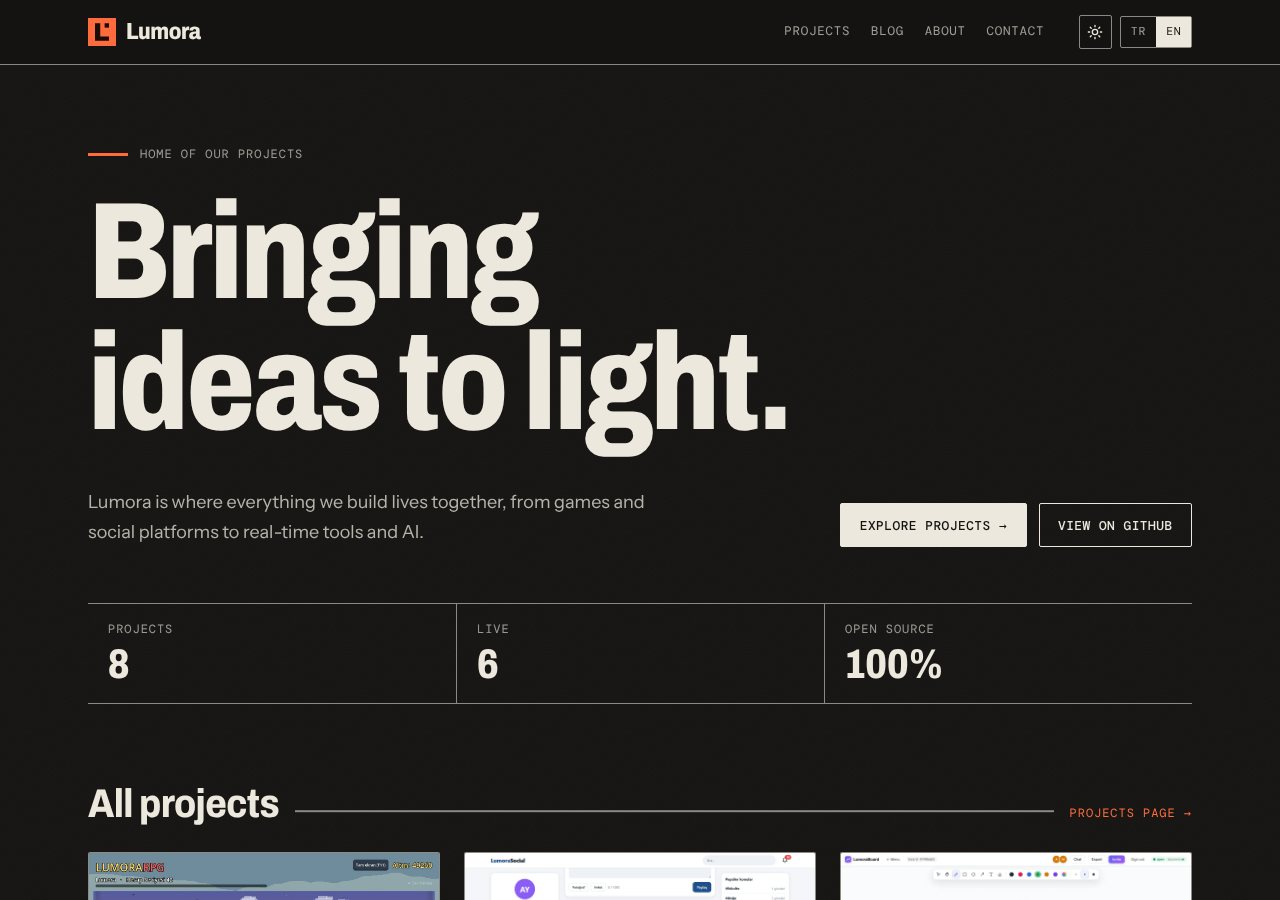
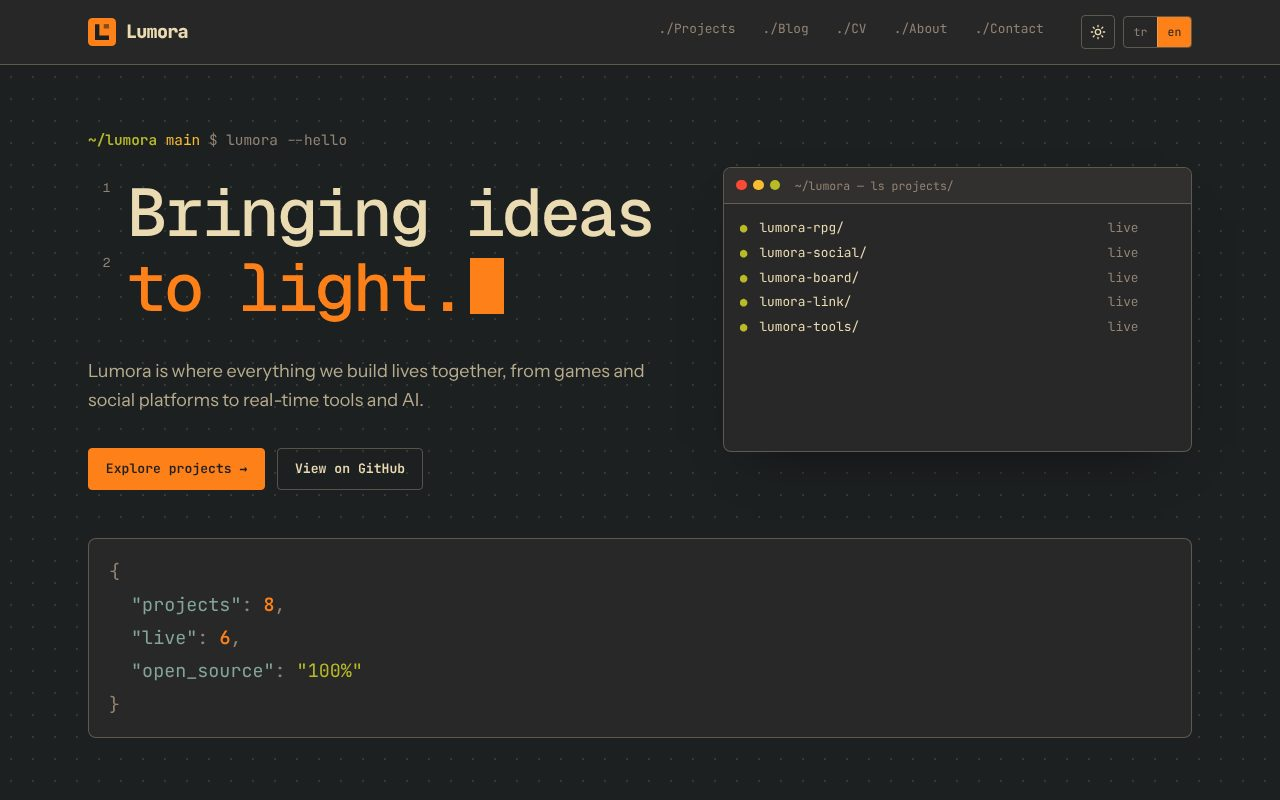
README: yeni tasarım ve güncel ekran görüntüleri (#14)
* README: yeni tasarıma göre güncellendi, ekran görüntüleri yenilendi

* README: kurulum ve geliştirme anlatımları kaldırıldı, yalnızca siteyi anlatıyor

---------

diff --git a/README.md b/README.md
@@ -23,12 +23,17 @@ Lumora, geliştirdiğimiz projelerin bir arada durduğu ana sitedir. Her projeni
 ## Ekran görüntüleri
 
 <p align="center">
-  <img src="docs/screenshots/anasayfa.jpg" alt="Ana sayfa: tanıtım ve öne çıkan projeler" width="100%">
+  <img src="docs/screenshots/anasayfa.jpg" alt="Ana sayfa: terminal temalı tanıtım, proje listesi ve istatistikler" width="100%">
 </p>
 
 <p align="center">
   <img src="docs/screenshots/projeler.jpg" alt="Projeler: kategori ve duruma göre süzülebilen liste" width="49%">
   <img src="docs/screenshots/proje-detay.jpg" alt="Proje sayfası: açıklama, özellikler ve teknolojiler" width="49%">
+</p>
+
+<p align="center">
+  <img src="docs/screenshots/cv.jpg" alt="CV sayfası: teknolojiler ve projeler otomatik gelir" width="49%">
+  <img src="docs/screenshots/giris.jpg" alt="Yönetici giriş sayfası" width="49%">
 </p>
 
 <p align="center">
@@ -40,112 +45,33 @@ Lumora, geliştirdiğimiz projelerin bir arada durduğu ana sitedir. Her projeni
   <img src="docs/screenshots/mobil.jpg" alt="Telefonda ana sayfa" width="30%">
 </p>
 
-<p align="center"><sub>Ana sayfa · Projeler · Proje sayfası · Açık tema · İngilizce sürüm · Mobil görünüm</sub></p>
+<p align="center"><sub>Ana sayfa · Projeler · Proje sayfası · CV · Yönetici girişi · Açık tema · İngilizce sürüm · Mobil görünüm</sub></p>
 
 ## Neler var
 
 - **Projeler:** LumoraRPG, LumoraSocial, LumoraBoard, LumoraLink, LumoraTools ve LumoraFiles yayında; Lumora Forge ve Lumora Academy geliştiriliyor.
 - **İki dil:** Türkçe `/`, İngilizce `/en/`. Sağ üstteki TR | EN düğmesi aynı sayfanın diğer dilini açar, seçim hatırlanır ve ilk ziyarette tarayıcı diline göre yönlendirilir.
+- **Yazılımcı sitesi görünümü:** terminal temalı ana sayfa, kod yorumu tarzı başlıklar, durum çubuğu altlık ve hafif animasyonlar (hareketi azalt ayarı açıkken kapanır).
+- **CV sayfası:** teknolojiler ve projeler sitedeki projelerden otomatik gelir; "PDF olarak kaydet" düğmesiyle yazdırılabilir.
+- **Yönetici girişi:** site sahibi GitHub ile girip blog yazısı ekleyebilir ve öne çıkan projeleri seçebilir.
 - **Koyu ve açık tema:** sağ üstteki düğmeyle değişir, seçim tarayıcıda saklanır.
-- **Blog:** duyurular ve sürüm notları için, yazılar Markdown dosyasıdır.
+- **Blog:** duyurular, sürüm notları ve grafikli yazılar; Türkçe ve İngilizce.
 - **GitHub bilgileri:** yıldız, son güncelleme ve son sürüm derleme sırasında çekilir; günlük otomatik yeniden derleme ile güncel kalır.
 - **SEO ve paylaşım:** sitemap, hreflang, Open Graph görseli ve güvenlik başlıkları hazırdır.
 - **Hızlı ve hafif:** sayfalar önceden HTML olarak üretilir, çerez ve takip betiği yoktur.
 
-## Geliştirme
+## Sayfalar
 
-```bash
-npm install
-npm run dev      # http://localhost:4321
-npm run build    # çıktı: dist/
-```
-
-Node 22 gerekir (`.nvmrc`).
-
-## Yeni proje eklemek
-
-`src/content/projects/` klasörüne yeni bir `.json` dosyası ekle (mevcutlardan birini kopyalayıp düzenlemek en kolayı). Dosya adı adres olur: `lumora-yeni.json` → `/projeler/lumora-yeni/` ve `/en/projects/lumora-yeni/`.
-
-| Alan | Açıklama |
+| Sayfa | Adres |
 | --- | --- |
-| `status` | `live` (Yayında), `beta` veya `development` (Geliştiriliyor) |
-| `order` | Sıralama |
-| `repo` | `kullanici/depo`; yıldız sayısı, son güncelleme ve son sürüm buradan otomatik çekilir |
-| `links` | "Siteye git", "İndir" gibi butonlar; ilki ana buton olur |
-| `screenshots` | `public/projects/` altındaki görseller; ilki kart kapağı olur. Yoksa kartta ikon ve renk gösterilir. Telefon görüntüleri için `"portrait": true` |
-| `accent`, `icon` | Projenin vurgu rengi ve emojisi |
+| Ana sayfa | `/` · `/en/` |
+| Projeler ve proje detayları | `/projeler/` · `/en/projects/` |
+| Blog | `/blog/` · `/en/blog/` |
+| CV | `/cv/` · `/en/cv/` |
+| Hakkında | `/hakkinda/` · `/en/about/` |
+| İletişim | `/iletisim/` · `/en/contact/` |
+| Yönetici girişi | `/giris/` · `/en/login/` |
 
-Metin alanlarının hepsi `{ "tr": "...", "en": "..." }` şeklindedir. Arayüz metinleri `src/lib/i18n.ts` içindedir.
+## Teknolojiler
 
-## Blog yazısı eklemek
-
-`src/content/posts/<adres>/` klasörü açıp içine `tr.md` ve/veya `en.md` koy (iki dil de zorunlu değil; yalnızca bir dil varsa diğer dilin blog sayfasına yönlenir). Dosya başı:
-
-```md
----
-title: Başlık
-description: Listede görünen kısa açıklama
-date: 2026-10-10
----
-
-Yazı metni (Markdown).
-```
-
-Yazılar `/blog/<adres>/` ve `/en/blog/<adres>/` altında yayınlanır, ana sayfada son iki yazı görünür.
-
-## Tema
-
-Renkler `src/styles/global.css` başındaki iki blokta durur (koyu: `html`, açık: `html[data-theme='light']`); Tailwind sınıfları bu değişkenlere bağlıdır. Vurgu rengini değiştirmek için iki blokta `--brand` ve `--brand-fg` yeterlidir. Tema ilk ziyarette cihazın temasını izler, seçim tarayıcıda saklanır.
-
-## Yayına alma (Cloudflare Pages, ücretsiz)
-
-1. [dash.cloudflare.com](https://dash.cloudflare.com) üzerinden ücretsiz hesap aç.
-2. **Workers & Pages → Create → Pages → Connect to Git** ile bu depoyu seç.
-3. Ayarlar: Framework preset **Astro**, build komutu `npm run build`, çıktı klasörü `dist`.
-4. Proje adını `lumorahub` yap; site `https://lumorahub.pages.dev` adresinde açılır. Adres değişirse `astro.config.mjs` içindeki `site` ve `public/robots.txt` adresini güncelle.
-5. (İsteğe bağlı) **Settings → Environment variables** altına `GITHUB_TOKEN` ekle; GitHub istek sınırına takılmayı önler.
-
-`main` dalına her birleştirme siteyi otomatik günceller; her PR için ayrı bir önizleme linki oluşur.
-
-### Günlük yenileme
-
-Proje kartlarındaki GitHub bilgilerinin her gün tazelenmesi için Cloudflare'de **Settings → Builds → Deploy hooks** ile bir hook oluştur, URL'yi bu deponun **Settings → Secrets and variables → Actions** bölümüne `CLOUDFLARE_DEPLOY_HOOK` adıyla ekle. `.github/workflows/daily-rebuild.yml` her gün 04:00 UTC'de siteyi yeniden derletir.
-
-### Ziyaretçi istatistiği
-
-Cloudflare'de projeyi aç, **Metrics → Web Analytics → Enable** de. Kod değişikliği gerekmez; çerez kullanmaz.
-
-### 7/24 izleme
-
-[UptimeRobot](https://uptimerobot.com) (ücretsiz) üzerinde site ve projelerin canlı adresleri için HTTP monitörü kur; kesinti olduğunda e-posta veya Telegram bildirimi gelir ve ücretsiz bir durum sayfası açılabilir.
-
-## Yönetici girişi ve öne çıkarma
-
-Site sahibi GitHub hesabıyla girip projeleri yıldızlayarak ana sayfanın en üstündeki "Öne çıkan projeler" bölümünü belirleyebilir; altında her zaman "Tüm projeler" bölümü durur. Alt bilgideki **Yönetici girişi** bağlantısı GitHub OAuth ile giriş yaptırır; yalnızca `ADMIN_LOGIN` hesabı (varsayılan `highlvmami`) yetkilidir. Giriş yapınca kartların köşesinde ☆/★ düğmesi çıkar; seçim Cloudflare KV'ye yazılır ve herkese açık ana sayfa bu listeyi okur. Hiç favori seçilmemişse üstteki bölüm görünmez.
-
-Kod `functions/` altındaki Cloudflare Pages Functions'tır (`/api/auth/*`, `/api/favorites`). Çalışması için Cloudflare'de bir kerelik kurulum gerekir:
-
-1. GitHub → **Settings → Developer settings → OAuth Apps → New OAuth App**: Homepage `https://lumorahub.pages.dev`, Authorization callback URL `https://lumorahub.pages.dev/api/auth/callback`. Oluşan **Client ID**'yi not al, **Generate a new client secret** ile bir secret üret.
-2. Cloudflare → **Workers & Pages → KV → Create namespace** (ör. `lumora-favorites`).
-3. Cloudflare → `lumorahub` projesi → **Settings → Bindings → Add → KV namespace**: değişken adı `FAVORITES`, az önceki namespace.
-4. Aynı projede **Settings → Variables and Secrets** altına ekle (Production): `GITHUB_CLIENT_ID`, `GITHUB_CLIENT_SECRET` (Secret olarak), `SESSION_SECRET` (rastgele uzun bir metin, Secret olarak). İsteğe bağlı: `ADMIN_LOGIN`.
-5. Siteyi yeniden dağıt (Deployments → son dağıtım → Retry) ya da `main`'e yeni bir birleştirme yap.
-
-Yerelde denemek için `npm run build` sonrası `npx wrangler pages dev dist --kv FAVORITES --binding SESSION_SECRET=x GITHUB_CLIENT_ID=x GITHUB_CLIENT_SECRET=x`.
-
-### Yönetici blog editörü
-
-Giriş yapınca blog sayfasında **+ Yeni yazı** düğmesi çıkar. Editörde başlık, kısa açıklama, dil, adres ve Markdown metni yazılır, yanında canlı önizleme görünür. Yazılar aynı Cloudflare KV'ye (`FAVORITES` bağlaması) `post:<adres>` anahtarıyla kaydedilir, blog listesinde tarihe göre statik yazıların arasına girer, yazı sayfasında yöneticiye **Düzenle** ve **Sil** düğmeleri görünür. Ek bir kurulum gerekmez. Yazı sayfası `/blog/yazi/?s=<adres>` adresinde istemci tarafında çizilir ve arama motorlarına kapalıdır; kalıcı ve aranabilir yazılar için `src/content/posts/` altına Markdown dosyası eklemeye devam edebilirsin. Güvenlik başlıkları (CSP) yüzünden yazılarda yalnızca siteden sunulan görseller (`/projects/...` gibi) görünür.
-
-## Proje yapısı
-
-| Klasör | İçerik |
-| --- | --- |
-| `src/content/` | Projeler (JSON) ve blog yazıları (Markdown) |
-| `src/pages/` | Türkçe sayfalar; `src/pages/en/` altında İngilizce karşılıkları |
-| `src/views/` | İki dilin paylaştığı sayfa gövdeleri |
-| `src/components/`, `src/layouts/` | Başlık, alt bilgi, kartlar, ortak sayfa iskeleti |
-| `src/lib/` | Arayüz metinleri, GitHub verisi, proje ve yazı yardımcıları |
-| `functions/` | Giriş ve öne çıkarma API'si (Cloudflare Pages Functions) |
-| `public/` | Logo, görseller, `robots.txt`, güvenlik başlıkları |
-| `.github/workflows/` | Derleme kontrolü ve günlük yeniden derleme |
+Astro, Tailwind CSS, TypeScript; Cloudflare Pages ve Pages Functions; yönetici girişi için GitHub OAuth, favoriler ve blog yazıları için Cloudflare KV.

diff --git a/README.en.md b/README.en.md
@@ -23,12 +23,17 @@ Lumora is the main site where our projects live together. Each project has its o
 ## Screenshots
 
 <p align="center">
-  <img src="docs/screenshots/anasayfa.jpg" alt="Home: intro and featured projects" width="100%">
+  <img src="docs/screenshots/anasayfa.jpg" alt="Home: terminal-style intro, project list and stats" width="100%">
 </p>
 
 <p align="center">
   <img src="docs/screenshots/projeler.jpg" alt="Projects: a list filterable by category and status" width="49%">
   <img src="docs/screenshots/proje-detay.jpg" alt="Project page: description, features and tech" width="49%">
+</p>
+
+<p align="center">
+  <img src="docs/screenshots/cv.jpg" alt="CV page: technologies and projects fill in automatically" width="49%">
+  <img src="docs/screenshots/giris.jpg" alt="Admin sign-in page" width="49%">
 </p>
 
 <p align="center">
@@ -40,110 +45,33 @@ Lumora is the main site where our projects live together. Each project has its o
   <img src="docs/screenshots/mobil.jpg" alt="Home page on a phone" width="30%">
 </p>
 
-<p align="center"><sub>Ana sayfa · Projeler · Proje sayfası · Light theme · English version · Mobil görünüm</sub></p>
+<p align="center"><sub>Home · Projects · Project page · CV · Admin sign-in · Light theme · English version · Mobile</sub></p>
 
 ## What's inside
 
 - **Projects:** LumoraRPG, LumoraSocial, LumoraBoard, LumoraLink, LumoraTools and LumoraFiles are live; Lumora Forge and Lumora Academy are in development.
 - **Two languages:** Turkish at `/`, English at `/en/`. The TR | EN switch in the top right opens the same page in the other language, the choice is remembered, and first-time visitors are redirected by browser language.
+- **Developer-site look:** a terminal-style home page, code-comment headings, a status-bar footer and light animations (disabled when reduced motion is on).
+- **CV page:** technologies and projects fill in automatically from the projects on the site; printable with a "Save as PDF" button.
+- **Admin sign-in:** the site owner signs in with GitHub to add blog posts and choose featured projects.
 - **Dark and light theme:** toggled from the top right, the choice is stored in the browser.
-- **Blog:** for announcements and release notes; posts are Markdown files.
+- **Blog:** announcements, release notes and posts with charts; in Turkish and English.
 - **GitHub data:** stars, last update and latest release are fetched at build time and kept fresh by a daily automatic rebuild.
 - **SEO and sharing:** sitemap, hreflang, Open Graph image and security headers are set up.
 - **Fast and light:** pages are pre-rendered HTML, with no cookies and no tracking script of our own.
 
-## Development
+## Pages
 
-```bash
-npm install
-npm run dev      # http://localhost:4321
-npm run build    # output: dist/
-```
-
-Node 22 is required (`.nvmrc`).
-
-## Adding a project
-
-Add a new `.json` file to `src/content/projects/` (copying an existing one is easiest). The file name becomes the address: `lumora-new.json` → `/projeler/lumora-new/` and `/en/projects/lumora-new/`.
-
-| Field | Description |
+| Page | Address |
 | --- | --- |
-| `status` | `live`, `beta` or `development` |
-| `order` | Sort order |
-| `repo` | `user/repo`; stars, last update and latest release are fetched from it automatically |
-| `links` | Buttons such as "Visit site" or "Download"; the first one is the primary button |
-| `screenshots` | Images under `public/projects/`; the first is the card cover. Without any, the card shows an icon and color. Use `"portrait": true` for phone screenshots |
-| `accent`, `icon` | The project's accent color and emoji |
+| Home | `/` · `/en/` |
+| Projects and project details | `/projeler/` · `/en/projects/` |
+| Blog | `/blog/` · `/en/blog/` |
+| CV | `/cv/` · `/en/cv/` |
+| About | `/hakkinda/` · `/en/about/` |
+| Contact | `/iletisim/` · `/en/contact/` |
+| Admin sign-in | `/giris/` · `/en/login/` |
 
-All text fields have the shape `{ "tr": "...", "en": "..." }`. UI strings live in `src/lib/i18n.ts`.
+## Tech
 
-## Adding a blog post
-
-Create `src/content/posts/<slug>/` and put `tr.md` and/or `en.md` in it (both languages are optional; with only one, the other language's blog page redirects). Front matter:
-
-```md
----
-title: Title
-description: Short description shown in the list
-date: 2026-10-10
----
-
-Post text (Markdown).
-```
-
-Posts are published under `/blog/<slug>/` and `/en/blog/<slug>/`, and the latest two appear on the home page.
-
-## Theme
-
-Colors live in two blocks at the top of `src/styles/global.css` (dark: `html`, light: `html[data-theme='light']`); the Tailwind classes are bound to those variables. To change the accent, edit `--brand` and `--brand-fg` in both blocks. The theme follows the device on the first visit and the choice is remembered in the browser.
-
-## Deploying (Cloudflare Pages, free)
-
-1. Create a free account at [dash.cloudflare.com](https://dash.cloudflare.com).
-2. **Workers & Pages → Create → Pages → Connect to Git** and pick this repository.
-3. Settings: framework preset **Astro**, build command `npm run build`, output directory `dist`.
-4. Name the project `lumorahub`; the site opens at `https://lumorahub.pages.dev`. If the address changes, update `site` in `astro.config.mjs` and the address in `public/robots.txt`.
-5. (Optional) Add `GITHUB_TOKEN` under **Settings → Environment variables** to avoid GitHub rate limits.
-
-Every merge to `main` updates the site automatically, and every PR gets its own preview link.
-
-### Daily refresh
-
-To refresh the GitHub data on the project cards every day, create a hook in Cloudflare under **Settings → Builds → Deploy hooks** and add its URL as `CLOUDFLARE_DEPLOY_HOOK` under this repository's **Settings → Secrets and variables → Actions**. `.github/workflows/daily-rebuild.yml` rebuilds the site every day at 04:00 UTC.
-
-### Visitor statistics
-
-Open the project in Cloudflare and choose **Metrics → Web Analytics → Enable**. No code changes needed; it uses no cookies.
-
-### 24/7 monitoring
-
-Set up HTTP monitors for the site and the projects' live addresses on [UptimeRobot](https://uptimerobot.com) (free); you get an email or Telegram alert on downtime, and a free status page can be opened.
-
-## Admin sign-in and featuring
-
-The site owner can sign in with GitHub and star projects to choose the "Featured projects" section at the very top of the home page; an "All projects" section always sits below it. The **Admin sign-in** link in the footer starts GitHub OAuth; only the `ADMIN_LOGIN` account (default `highlvmami`) is allowed. Once signed in, a ☆/★ button appears on the cards; the choice is written to Cloudflare KV and the public home page reads it. If nothing is starred, the top section is hidden.
-
-The code is Cloudflare Pages Functions under `functions/` (`/api/auth/*`, `/api/favorites`). One-time setup in Cloudflare:
-
-1. GitHub → **Settings → Developer settings → OAuth Apps → New OAuth App**: Homepage `https://lumorahub.pages.dev`, Authorization callback URL `https://lumorahub.pages.dev/api/auth/callback`. Note the **Client ID** and generate a **client secret**.
-2. Cloudflare → **Workers & Pages → KV → Create namespace** (e.g. `lumora-favorites`).
-3. Cloudflare → `lumorahub` project → **Settings → Bindings → Add → KV namespace**: variable name `FAVORITES`.
-4. Same project, **Settings → Variables and Secrets** (Production): `GITHUB_CLIENT_ID`, `GITHUB_CLIENT_SECRET` (as a secret), `SESSION_SECRET` (a long random string, as a secret). Optional: `ADMIN_LOGIN`.
-5. Redeploy (Deployments → latest → Retry deployment).
-
-### Admin blog editor
-
-Once signed in, a **+ New post** button appears on the blog page. The editor takes a title, short description, language, address and Markdown text, with a live preview. Posts are saved to the same Cloudflare KV (the `FAVORITES` binding) under `post:<address>`, appear in the blog list sorted by date among the static posts, and admins see **Edit** and **Delete** buttons on the post page. No extra setup is needed. The post page is rendered client-side at `/blog/post/?s=<address>` and is hidden from search engines; for permanent, searchable posts keep adding Markdown files under `src/content/posts/`. Because of the security headers (CSP), posts can only show images served from the site itself (such as `/projects/...`).
-
-## Project structure
-
-| Folder | Contents |
-| --- | --- |
-| `src/content/` | Projects (JSON) and blog posts (Markdown) |
-| `src/pages/` | Turkish pages; English counterparts under `src/pages/en/` |
-| `src/views/` | Page bodies shared by both languages |
-| `src/components/`, `src/layouts/` | Header, footer, cards, shared page shell |
-| `src/lib/` | UI strings, GitHub data, project and post helpers |
-| `functions/` | Sign-in and featuring API (Cloudflare Pages Functions) |
-| `public/` | Logo, images, `robots.txt`, security headers |
-| `.github/workflows/` | Build check and daily rebuild |
+Astro, Tailwind CSS, TypeScript; Cloudflare Pages and Pages Functions; GitHub OAuth for admin sign-in, Cloudflare KV for favorites and blog posts.
